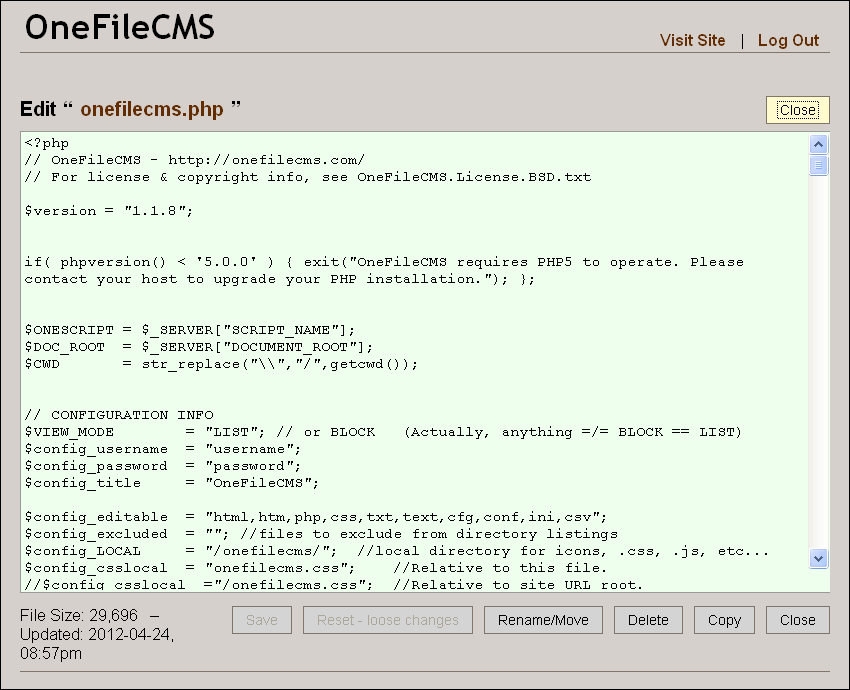
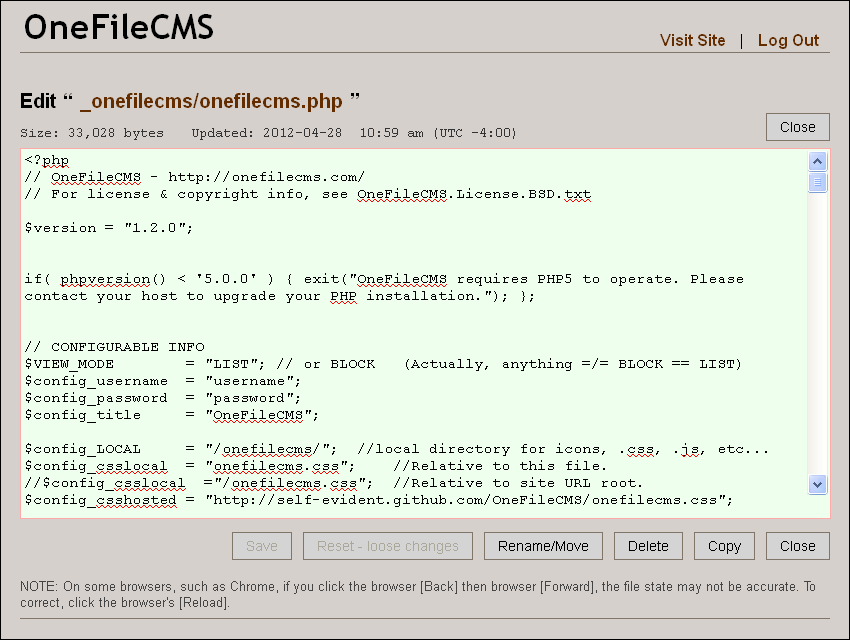
Version 1.2.0

diff --git a/onefilecms.css b/onefilecms.css
@@ -4,10 +4,12 @@
  */ 
 
 
-/* #774200 #807568 #976322 #995400 #d4d4d4 #0F0901
+/* #774200 #807568 #976322 #995400 #d4d4d4 #0F0901 #eaeaea rgb(255,250,150)
    rgb(157, 124, 83) rgb(157, 124, 83)
-   rgb(255,250,150) #fffbce #969376 rgb(255,245,115)
+   rgb(255,250,150) rgb(255,250,150) #969376 rgb(255,245,115)
  */
+
+
 
 /* --- reset --- */
 html,body,div,span,applet,object,iframe,h1,h2,h3,h4,h5,h6,p,blockquote,pre,a,abbr,acronym,address,big,
@@ -25,6 +27,25 @@ fieldset,form,label,legend,table,caption,tbody,tfoot,thead,tr,th,td
 	vertical-align: baseline;
 	}
 
+
+
+
+/* --- general formatting --- */
+
+body {
+	font-size: 1em;
+	background: #d5d0cc;
+	font-family: sans-serif;
+	}
+
+h2,h3,p,ul,table { margin-bottom: 10px; }
+
+em, i { font-style: italic; }
+
+strong { font-weight: bold; }
+
+li {line-height: 1.4em; }
+
 :focus{outline:0;}
 
 ol,ul{list-style:none;}
@@ -39,12 +60,38 @@ blockquote,q{quotes:"" "";}
 div{position: relative;}
 
 h1,h2,h3,h4,h5,h6{font-weight: bold;}
+h2 { font-size: 20px; }
+h3 { font-size: 18px; margin-top: 15px; }
+h4 { font-size: 1.3em; margin-bottom: .2em; font-weight: normal;}
 
-body {
-	font-size: 1em;
-	background: #d5d0cc;
-	font-family: sans-serif;
+a { border: 1px solid transparent; color: rgb(100,45,0); text-decoration: none; }
+a:hover { border: 1px solid #807568; background-color: rgb(255,250,150); }
+a:focus { border: 1px solid #807568; background-color: rgb(255,250,150); }
+
+form p { margin-bottom: 5px; }
+
+
+label {
+	display: inline-block;
+	width  : 7em;
+	font-size : 14px;
+	font-style: italic;
 	}
+
+
+pre {
+	background: white;
+	border: 1px solid #807568;
+	line-height: 1.25em;
+	overflow: auto
+	overflow-Y: hidden;
+	padding: 10px;
+	margin: 5px 0 10px 0;
+	overflow: hidden;
+	}
+
+
+
 
 
 /* --- layout --- */
@@ -86,47 +133,6 @@ body {
 
 
 
-/* --- general formatting --- */
-
-h2,h3,p,ul,table { margin-bottom: 10px; }
-
-Xp, li {line-height: 1.4em; }
-
-form p { margin-bottom: 5px; }
-
-a { border: 1px solid transparent; color: rgb(100,45,0); text-decoration: none; }
-a:hover { border: 1px solid #807568; background-color: rgb(255,250,150); }
-a:focus { border: 1px solid #807568; background-color: rgb(255,250,150); }
-
-
-h2 { font-size: 20px; }
-
-h3 { font-size: 18px; margin-top: 15px; }
-
-h4 { font-size: 1.3em; margin-bottom: .2em; font-weight: normal;}
-
-em, i { font-style: italic; }
-
-strong { font-weight: bold; }
-
-label {
-	display: inline-block;
-	width  : 7em;
-	font-size : 14px;
-	font-style: italic;
-	}
-
-pre {
-	background: white;
-	border: 1px solid #807568;
-	line-height: 1.25em;
-	overflow: auto
-	overflow-Y: hidden;
-	padding: 10px;
-	margin: 5px 0 10px 0;
-	overflow: hidden;
-	}
-
 .page_login label {
 	display: block;
 	margin-bottom: 2px;
@@ -143,19 +149,22 @@ pre {
 	}
 
 #message {
-	margin-bottom: .5em;
-	min-height: 1.7em;  /* Leaves space when on edit page with no message. */
+	min-height: 1.7em; /* Leave space when message is blank. Used by Edit page */
 	}
-	
+
 #message p {
 	margin: 0;
-	padding: 5px 5px 5px 30px;
+	padding: 4px 0px 4px .5em;
 	border: 1px solid #807568;
 	font-family: Lucida Console, "Courier New" ;
 	font-size: .95em;
 	line-height: 1em;
 	background: #fff000;
 	}
+
+#message span { float: right; }
+
+#message a { padding: 4px 1px 4px 1px; border-right: none; } /*T R B L*/
 
 
 /* --- INDEX --- */
@@ -164,13 +173,13 @@ pre {
 
 .index li {
 	margin: 0 10px 10px 0;
-	width: 192.5px;
+	width: 260px;
 	float: left;
 	position: relative;
 	}
 
 .index a {
-	height: 28px;
+	height: 20px;
 	display: block;
 	padding: 7px 5px 7px 35px;
 	border: 1px solid #807568;
@@ -242,26 +251,28 @@ table.index_T td {
 /* File size & date */
 
 .meta_size {
-	Xwidth         : 9em;
-	padding-left  :  1em;
+	min-width     : 6em;
 	padding-right : .5em;
 	text-align    : right;
-    font-size     : .8em; color: #333;
+	font-family   : courier;
+    font-size     : .9em;
+	color         : #333;
 	}
 
 .meta_time {
-	width         : 12em;
+	width         : 13em;
 	padding-right : .5em;
 	text-align    : right;
-	font-size     : .8em; color: #333;
+	font-family   : courier;
+	font-size     : .9em;
+	color         : #333;
 	}
 
 
 .index .meta {
-	font-size: 11px;
+	font-size: .9em;
 	height: 25px;
 	margin-top: 3px;
-	overflow: hidden;
 	line-height: 1.1em;
 	}
 
@@ -337,8 +348,10 @@ textarea.disabled { height: 50px; }
 textarea:focus { border: 1px solid #Faa; }
 
 
-input:focus { background-color: #fffbce; }
-/* input[type="button"]:focus { background-color: #fffbce; } */
+input:focus { background-color: rgb(255,250,150); }
+/* input[type="button"]:focus { background-color: rgb(255,250,150); } */
+
+input:hover { background-color: rgb(255,250,150); }
 
 
 .buttons_right { float: right;}
@@ -355,8 +368,14 @@ input:focus { background-color: #fffbce; }
 	font-family: sans-serif;
 	}
 
-.button:hover { background-color: #eaeaea; }
+.Xbutton:hover { background-color: rgb(255,250,150); } 
 .button[disabled]:hover { background-color: #d4d4d4; }
+
+/*
+#Xsave_file         { border: 1px solid red; }
+#save_file a:hover { background-color: rgb(255,250,150); border: 1px solid red; }
+#save_file a:focus { background-color: rgb(255,250,150); border: 1px solid red; }
+*/
 
 
 #action {color: white; background-color: rgb(235,70,70); font-weight: 700;}
@@ -388,11 +407,17 @@ input:focus { background-color: #fffbce; }
 
 /* --- edit --- */
 
-#edit_header {float: left;}
+#edit_header  {margin: 0;}
 
-.close {float: right;}
+#edit_form    {margin: 0;}
 
+#file_content {height: 24em; }
 
+#file_meta	  {float: left;  margin-top: .5em; width: 700px; border: 0px solid red; }
+
+.close        {float: right; margin-bottom: .5em;}
+
+#edit_note    {font-size: .8em; color: #444 ;margin-top: 1em;}
 
 /* --- log in --- */
 
@@ -410,7 +435,6 @@ input:focus { background-color: #fffbce; }
 	width   : 356px;
 	font    : 1em Courier;
 }
-
 
 
 
